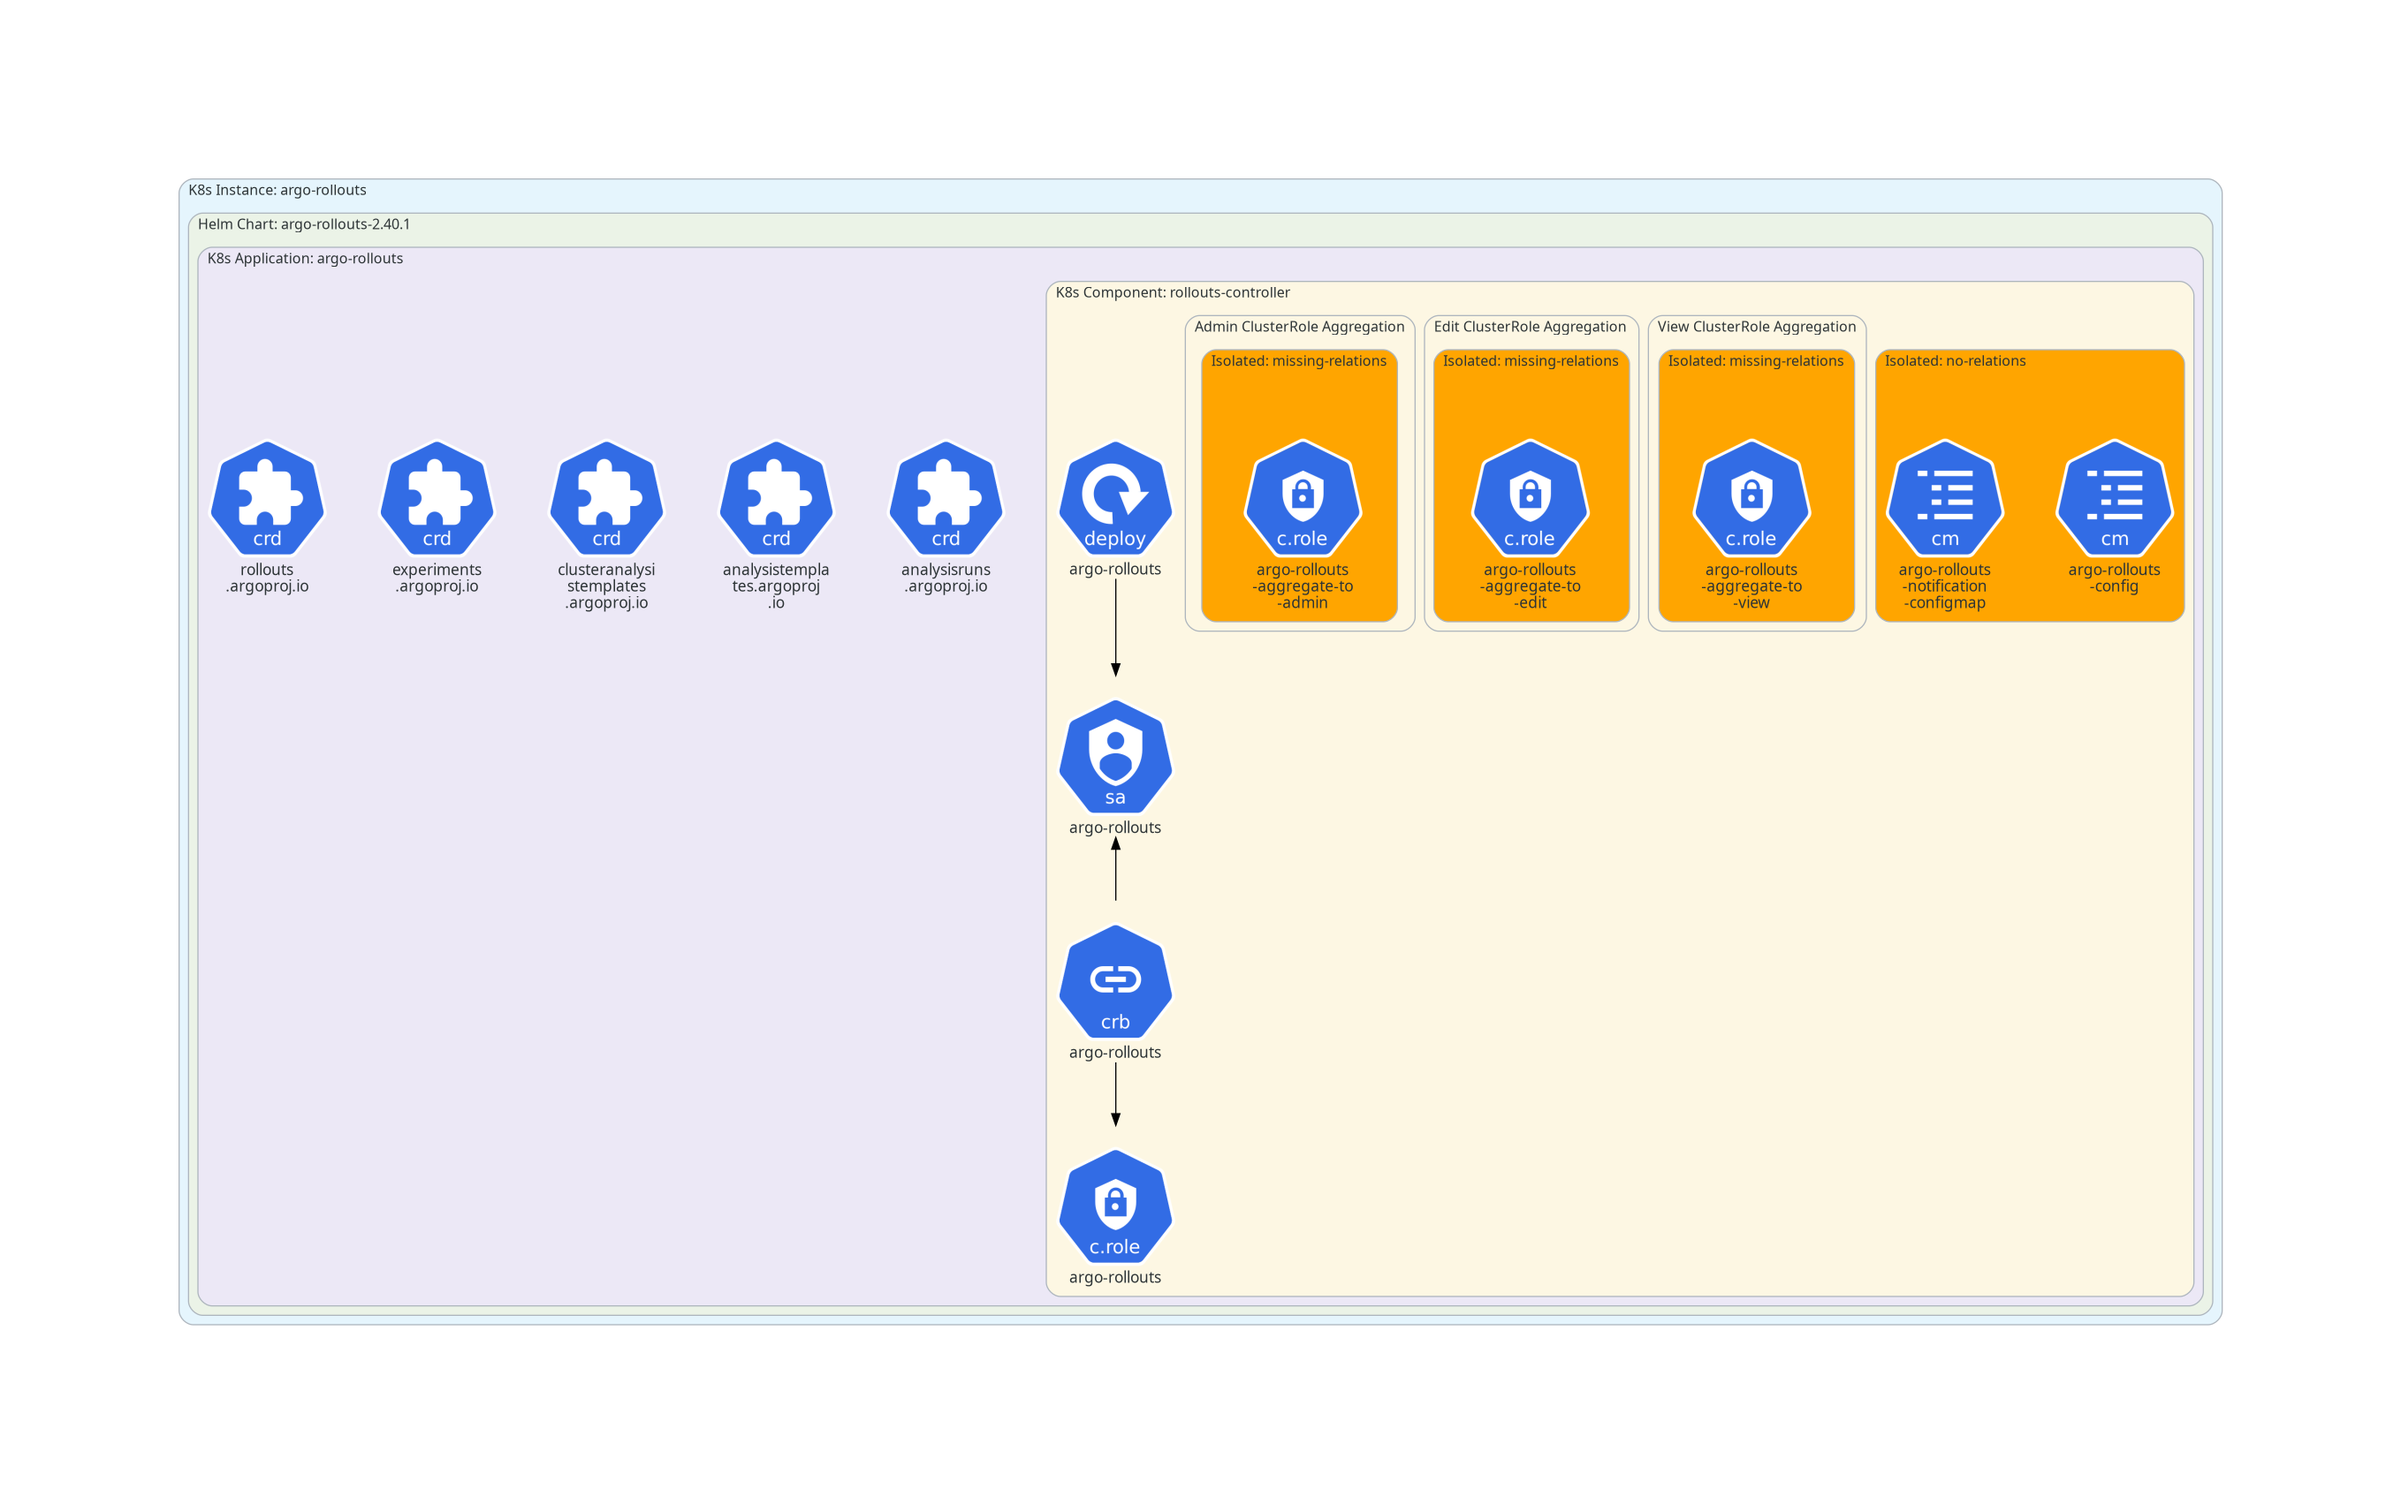
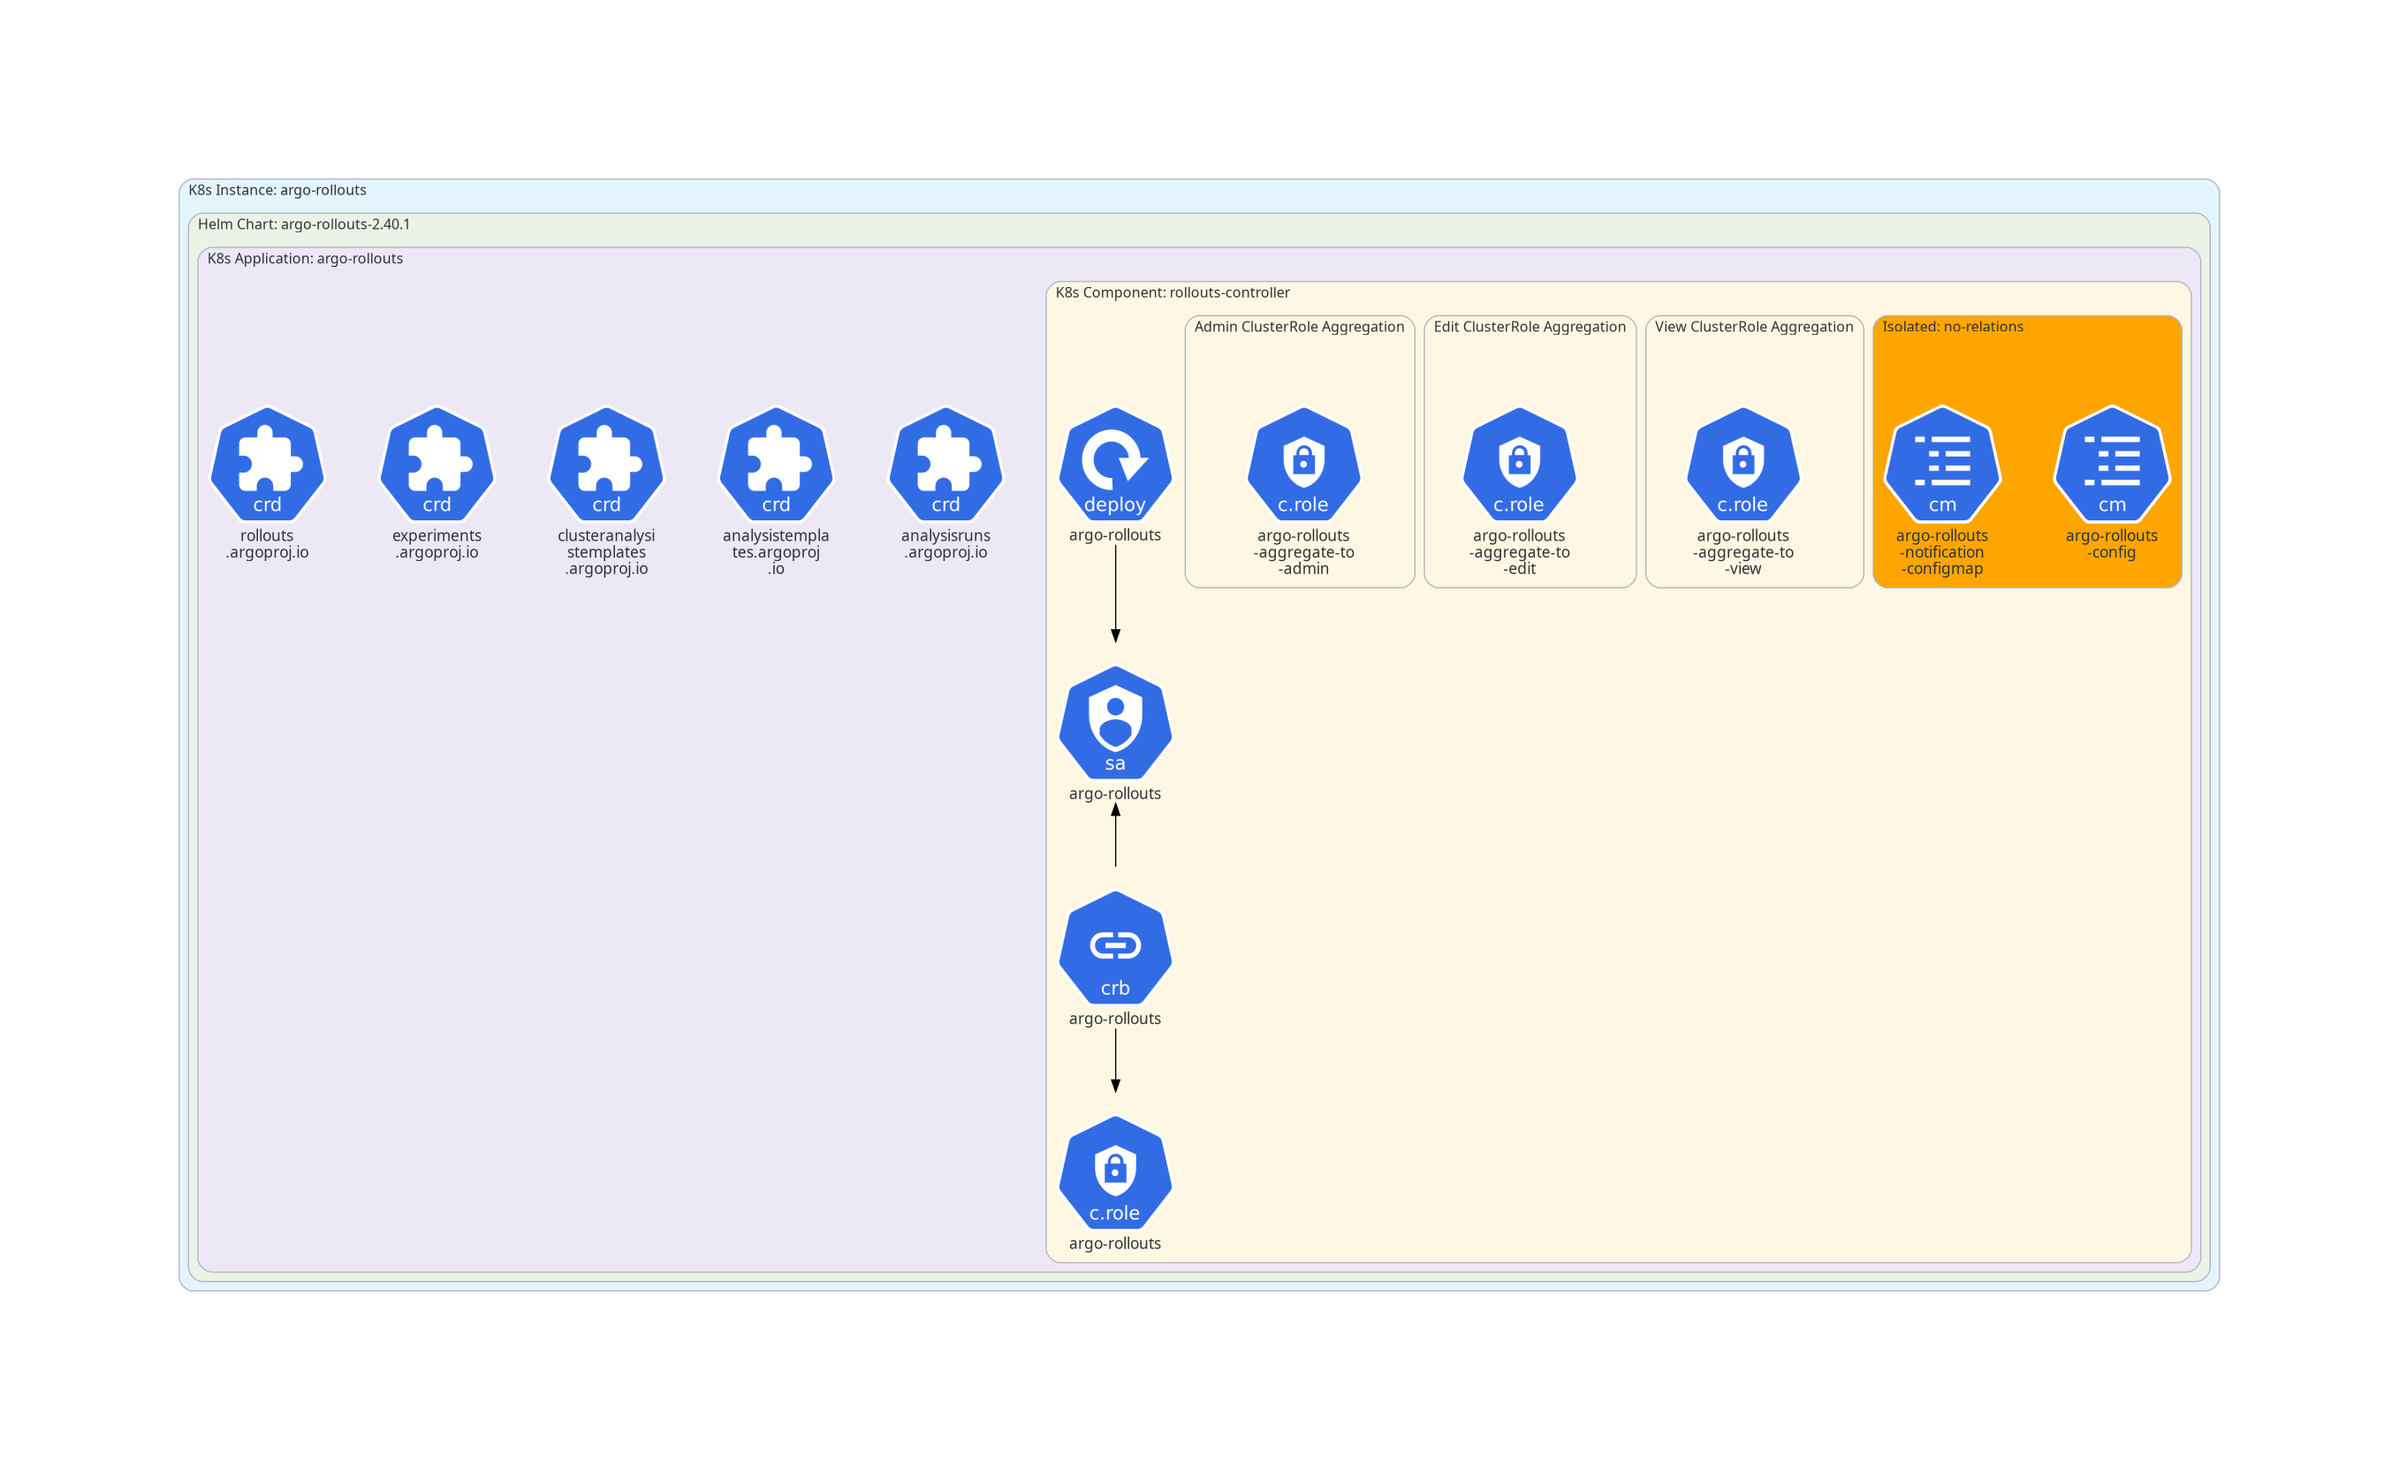
correct isolation rules for roles and bindings : take K8s specific references into account

diff --git a/src/kubefix/algo_mark_isolated.py b/src/kubefix/algo_mark_isolated.py
@@ -14,7 +14,6 @@ RESOURCE_KINDS_WITH_RELATIONS = [
     "PodDisruptionBudget",
     "ServiceAccount",
     "NetworkPolicy",
-    #"ClusterRole",
     "Service",
     "ValidatingWebhookConfiguration",
     "Issuer",
@@ -29,6 +28,13 @@ ROLES = [
     "ClusterRole",
     "Role",
 ]
+
+K8S_AGGREGATE_LABELS = [
+    "rbac.authorization.k8s.io/aggregate-to-admin",
+    "rbac.authorization.k8s.io/aggregate-to-edit",
+    "rbac.authorization.k8s.io/aggregate-to-view",
+]
+
 
 def _isolated_no_relation(resources, parent_map, child_map, config, warnings, stats):
     """Add an 'isolated-resource' label to resources who doesn't have any relations 
@@ -92,14 +98,30 @@ def _isolated_missing_relation(resources, parent_map, child_map, config, resourc
 
         rid = compute_rid(resource, config)
         metadata = resource.setdefault("metadata", {})
+        labels = metadata.get("labels") or {}
         reason = None
 
         if kind in BINDINGS:
+            # skip if resource referenced by this binding is a K8s specific thing
+            role_ref = resource.get("roleRef") or {}
+            if role_ref.get("kind") == "Role":
+                namespace = metadata.get("namespace") or "default"
+                role_rid = f"{role_ref.get('name')}/{namespace}/Role/rbac.authorization.k8s.io/v1"
+            else:
+                role_rid = f"{role_ref.get('name')}/ClusterRole/rbac.authorization.k8s.io/v1"
+
+            if role_rid in config.get("cluster-resources", []):
+                continue
+
             children = [resources_by_rid[c]["kind"] for c in child_map.get(rid, [])]
             if not any(k in ROLES for k in children):
                 reason = "Resource is a binding but has no edge to a role"
 
         else:  # roles
+            # skip roles aggregated by K8s = has specific labels
+            if any(key in K8S_AGGREGATE_LABELS for key in labels):
+                continue
+
             parents = [resources_by_rid[p]["kind"] for p in parent_map.get(rid, [])]
             if not any(k in BINDINGS for k in parents):
                 reason = "Resource is a role but has no edge from a binding"
@@ -107,7 +129,6 @@ def _isolated_missing_relation(resources, parent_map, child_map, config, resourc
         if reason is None:
             continue
 
-        labels = metadata.get("labels") or {}
         if labels.get(ISOLATED_LABEL) != "no-relations":  # keep the stronger signal
             labels[ISOLATED_LABEL] = "missing-relations"
         metadata["labels"] = labels
